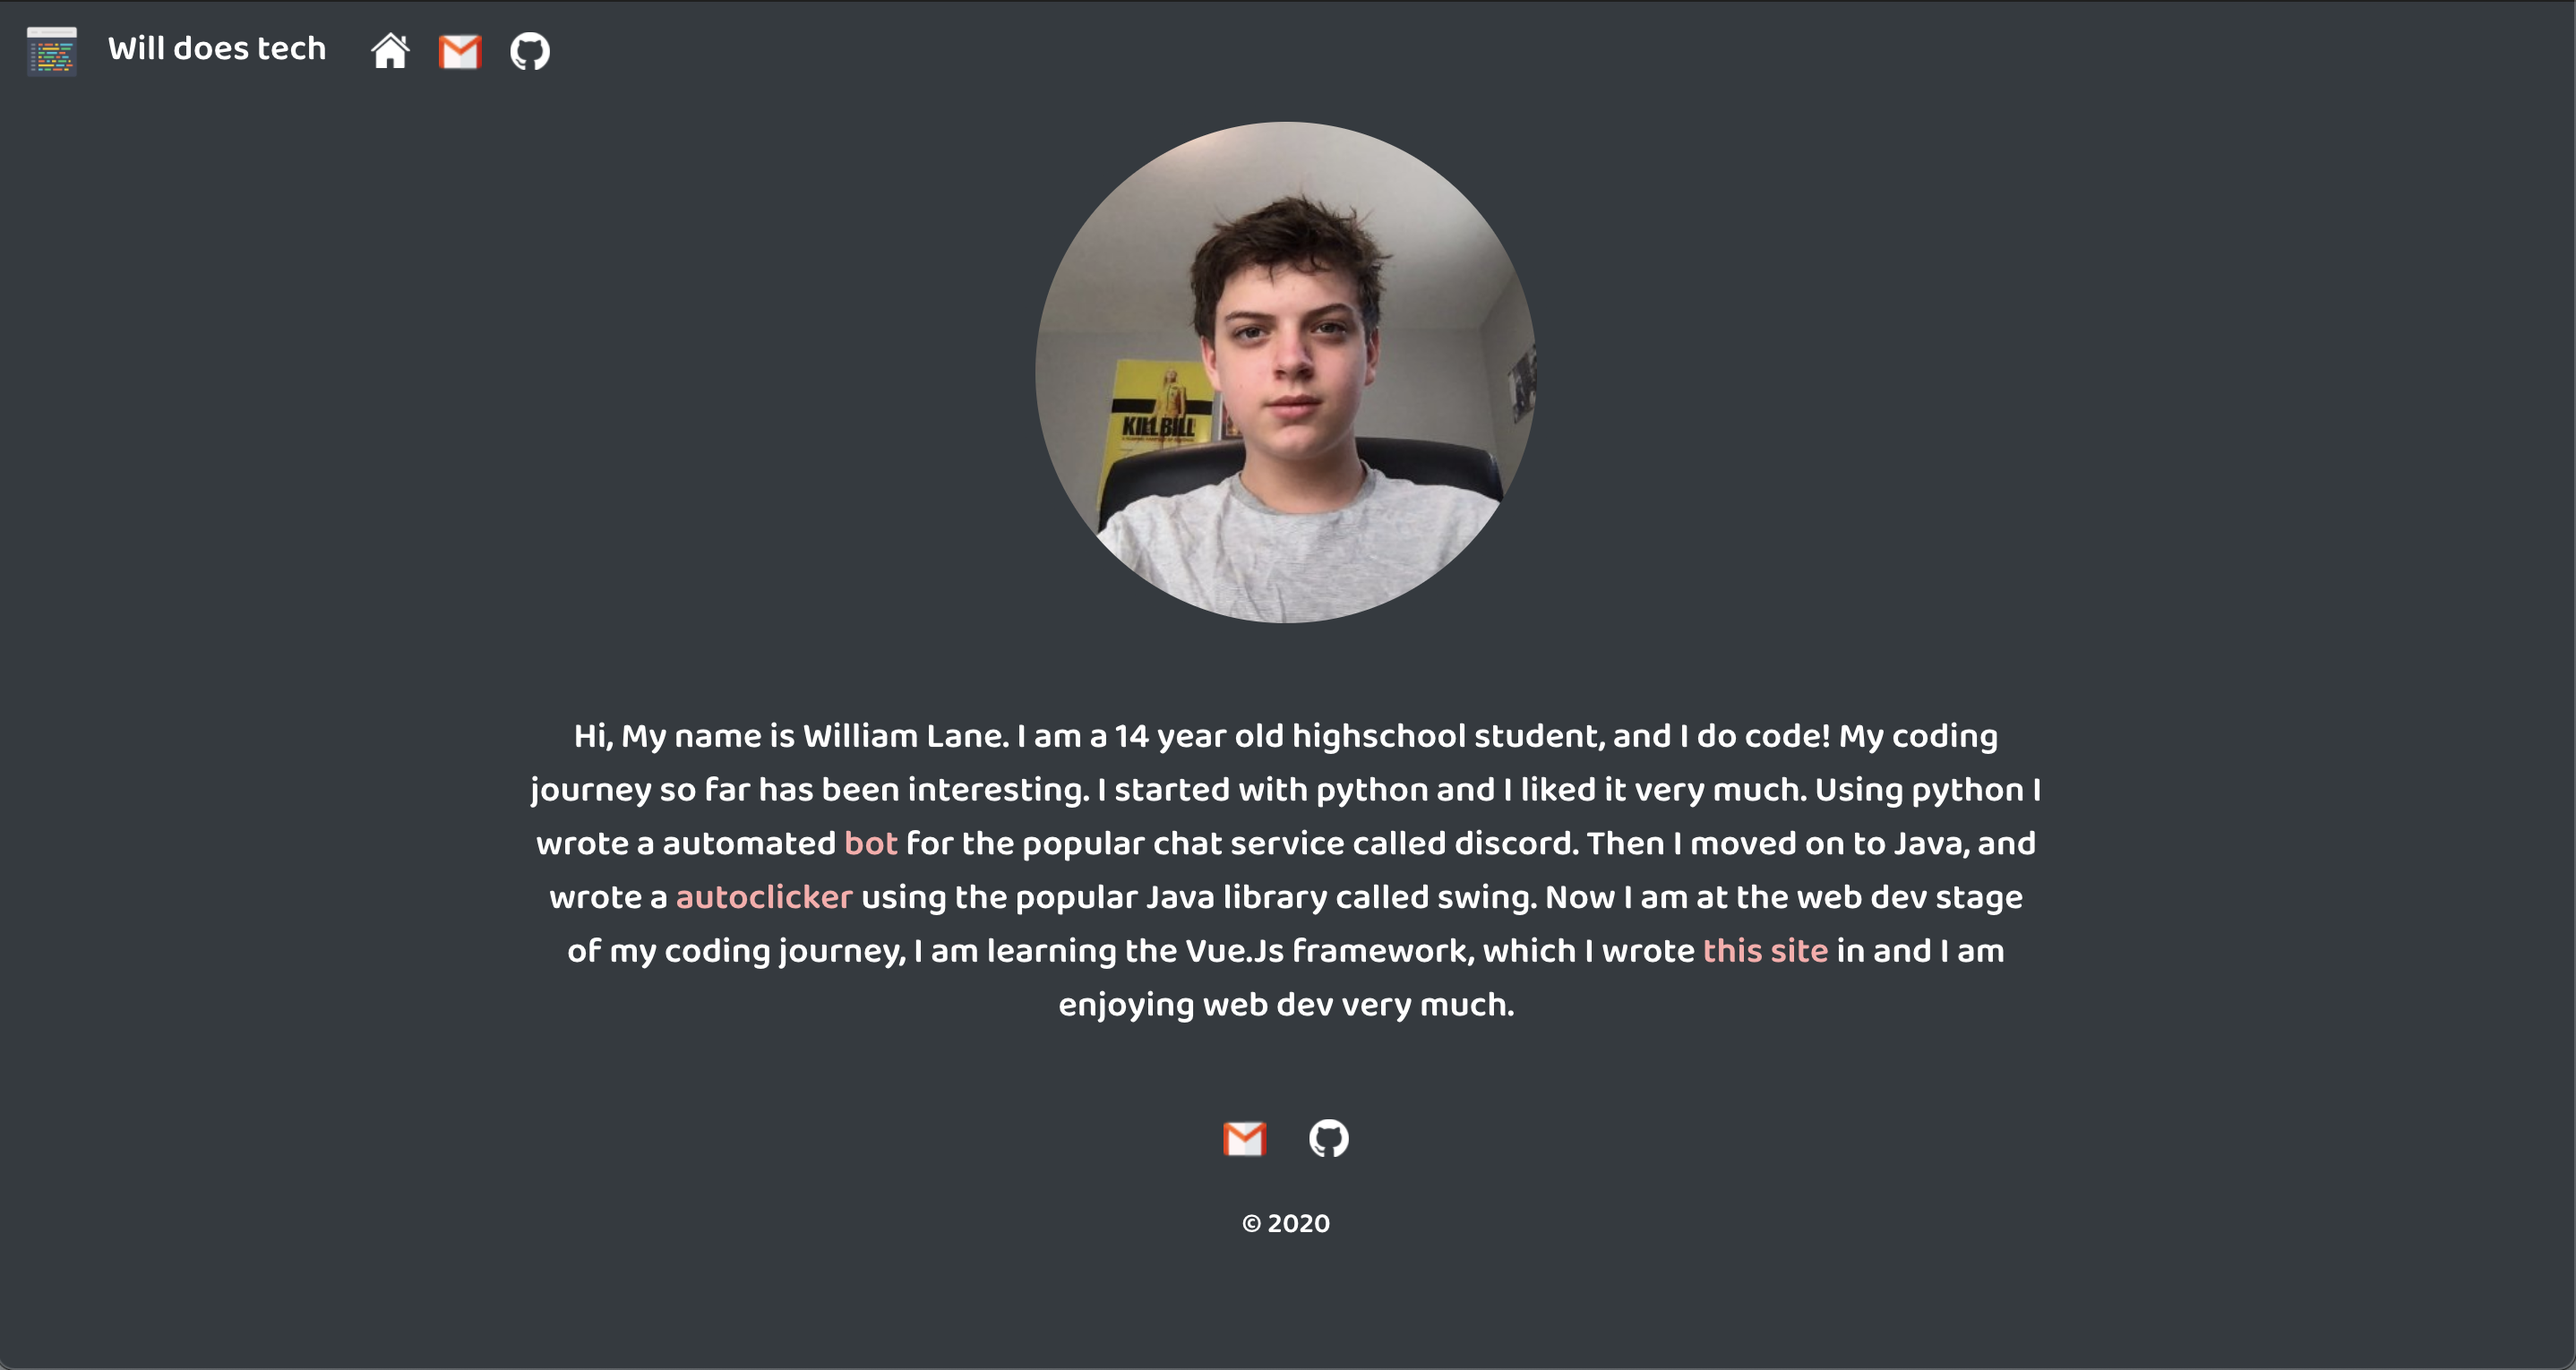
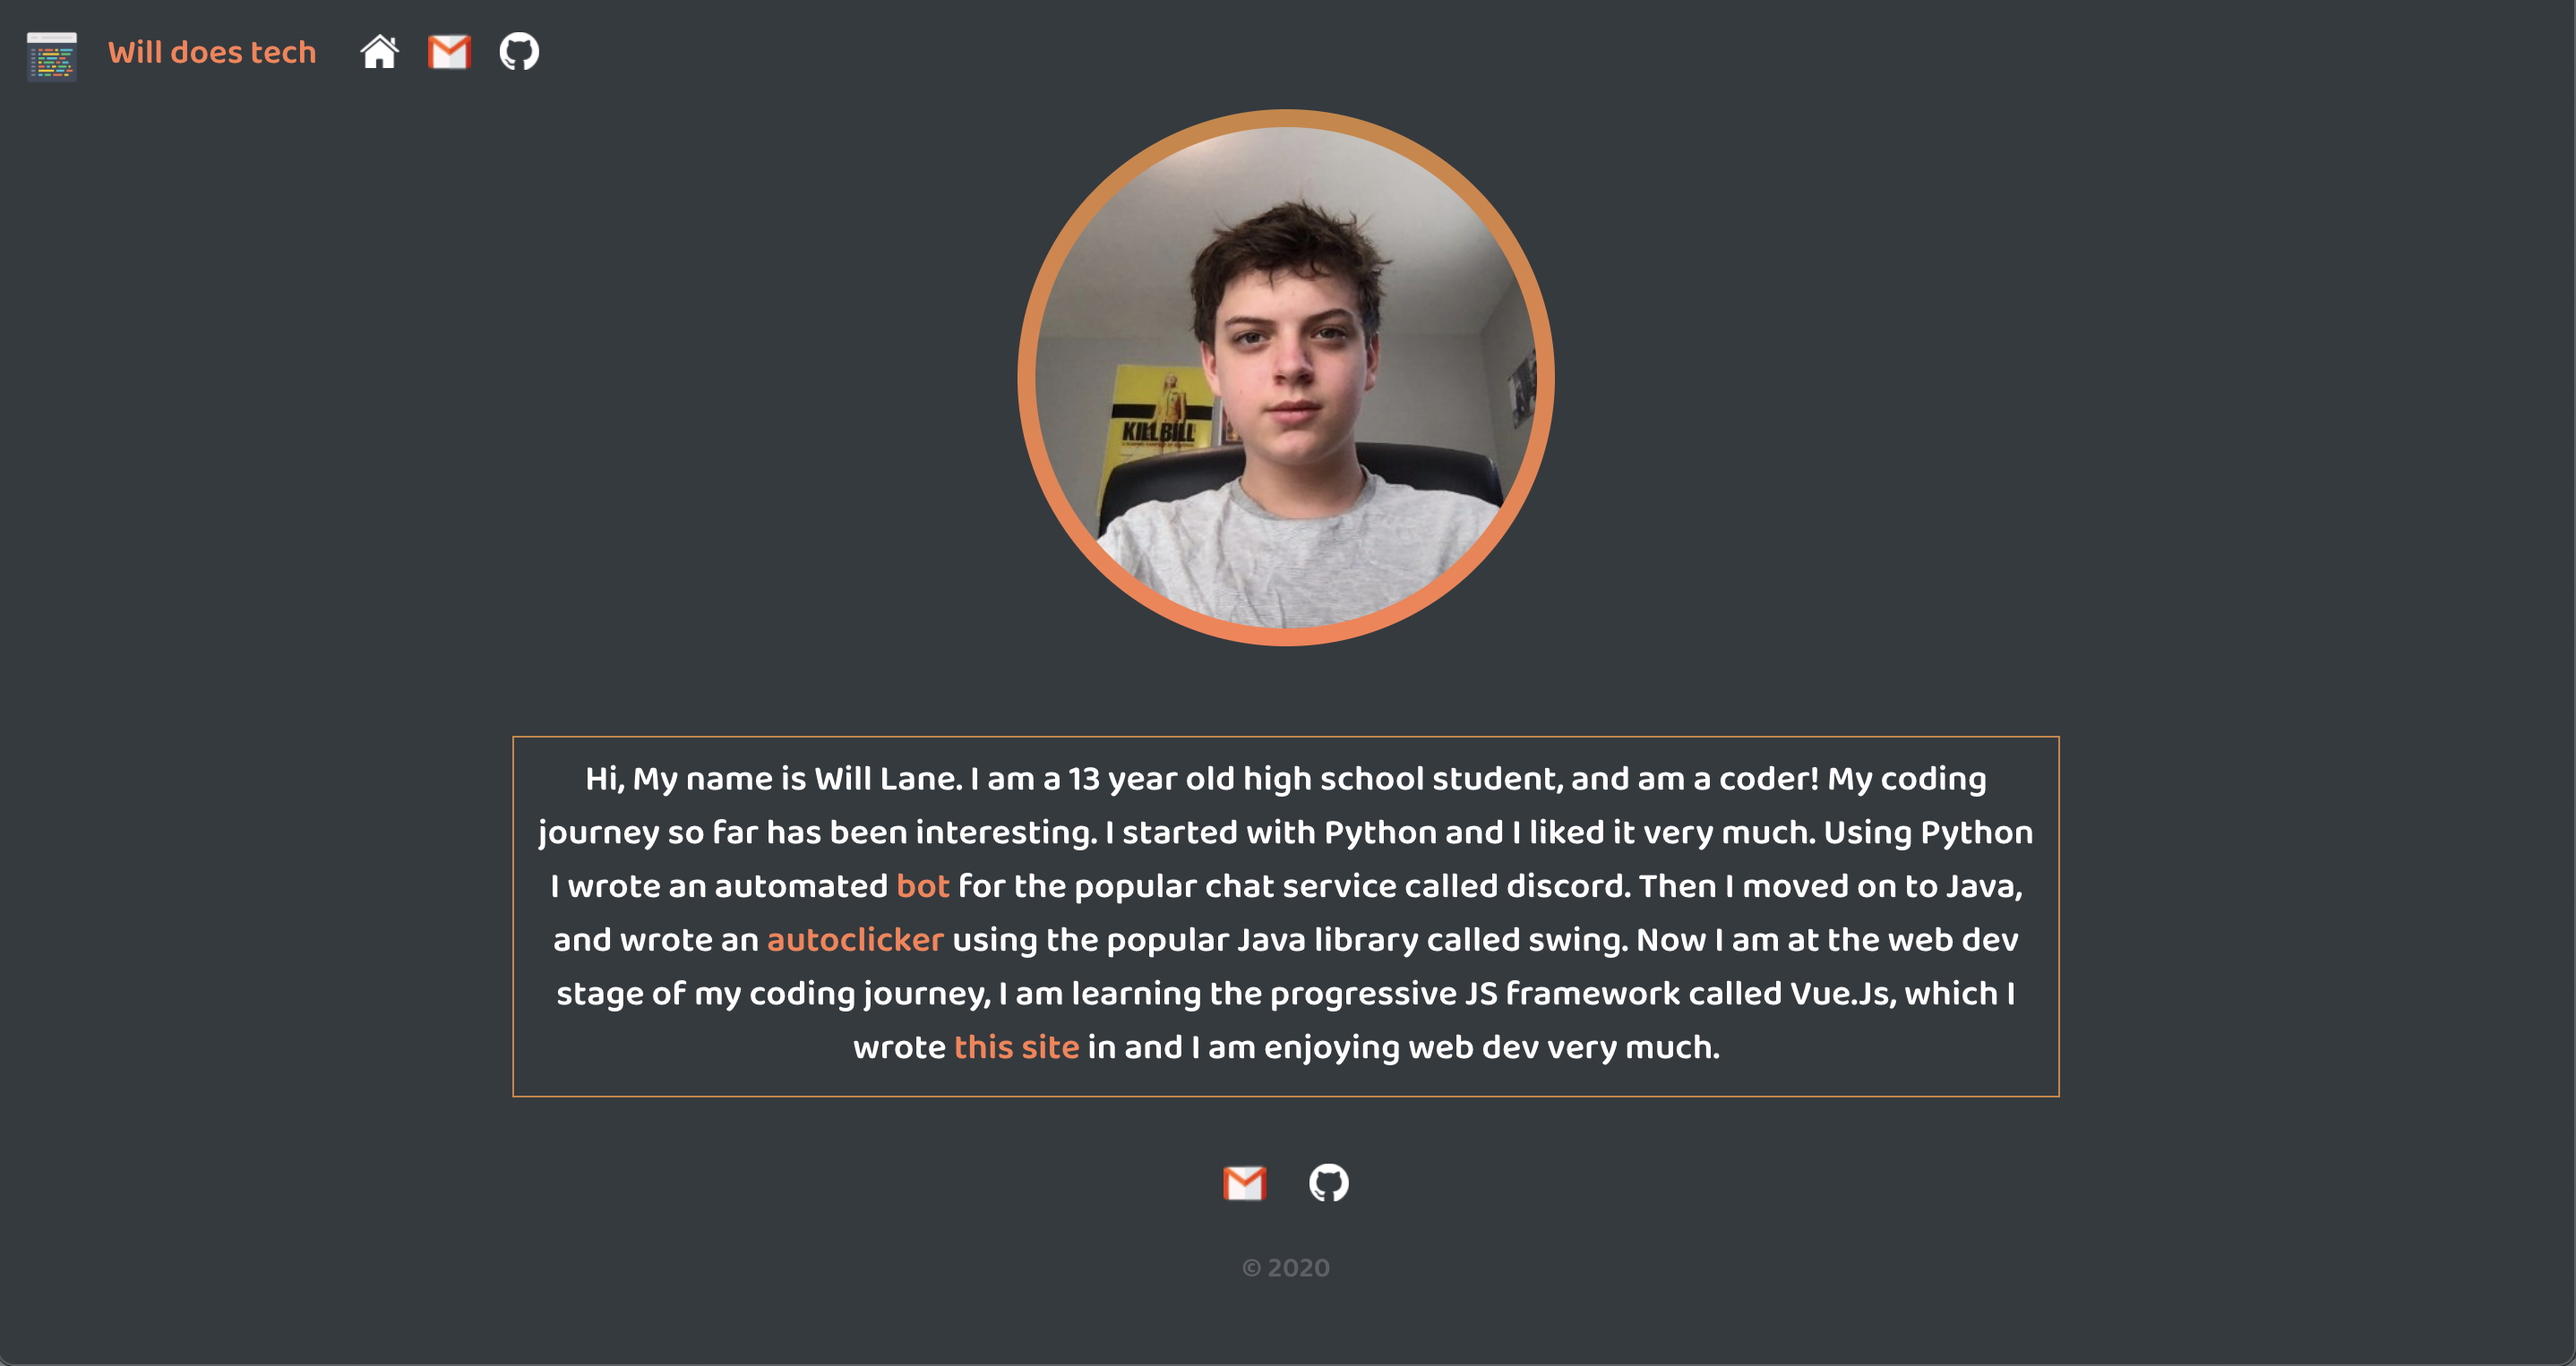
made it a whole lot better

diff --git a/src/components/Navbar.vue b/src/components/Navbar.vue
@@ -8,7 +8,7 @@
 <!--        coding icon to the right of the navbar goes to the root of the website-->
         <img class="stupid" src="../assets/ah.png" width="30" height="30" alt="">
       </a>
-      <a class="navbar-brand" href="/" style="color: peru; font-size: 2vh">Will does tech</a>
+      <a class="navbar-brand" href="/" style="color: coral; font-size: 2.5vh">Will does tech</a>
 <!--      site name also goes to root of site-->
       <div class="collapse navbar-collapse" id="navbarNav">
         <ul class="navbar-nav">
@@ -109,4 +109,5 @@ export default {
 .stupid:hover {
   transform: scale(1.1);
 }
+
 </style>

diff --git a/src/components/About.vue b/src/components/About.vue
@@ -40,6 +40,7 @@ export default {
   width: 100%;
   display: flex;
   justify-content: center;
+  margin-top: 20px;
 }
 
 .container p {
@@ -48,11 +49,12 @@ export default {
   font-family: 'Baloo Tamma 2', cursive;
   font-size: 20px;
   width: 60vw;
+  border: 1px solid peru;
 }
 
 .container a {
   /*change colors for hrefs*/
-  color: peru;
+  color: coral;
   font-weight: 800;
   transition: 0.3s;
 }

diff --git a/src/components/Me.vue b/src/components/Me.vue
@@ -33,6 +33,7 @@ img {
   transition: 0.3s;
   /*make it transition slower*/
   padding: 10px;
+  background-image: linear-gradient(to bottom, peru, coral);
 }
 
 
@@ -41,4 +42,5 @@ img:hover {
   border-radius: 15px;
   cursor: pointer;
 }
+
 </style>

diff --git a/src/App.vue b/src/App.vue
@@ -55,6 +55,7 @@ export default {
   height: auto;
 }
 
+/*this particular class isn't in this file but im styling it here anyway*/
 .container {
   max-width: 100%;
 }

diff --git a/README.md b/README.md
@@ -1,6 +1,10 @@
 # First website
 
+##Horizontal version
 ![Site](read.png)
+
+##Vertical version
+![vertsite](vertical.png)
 
 ## Project setup
 ```
